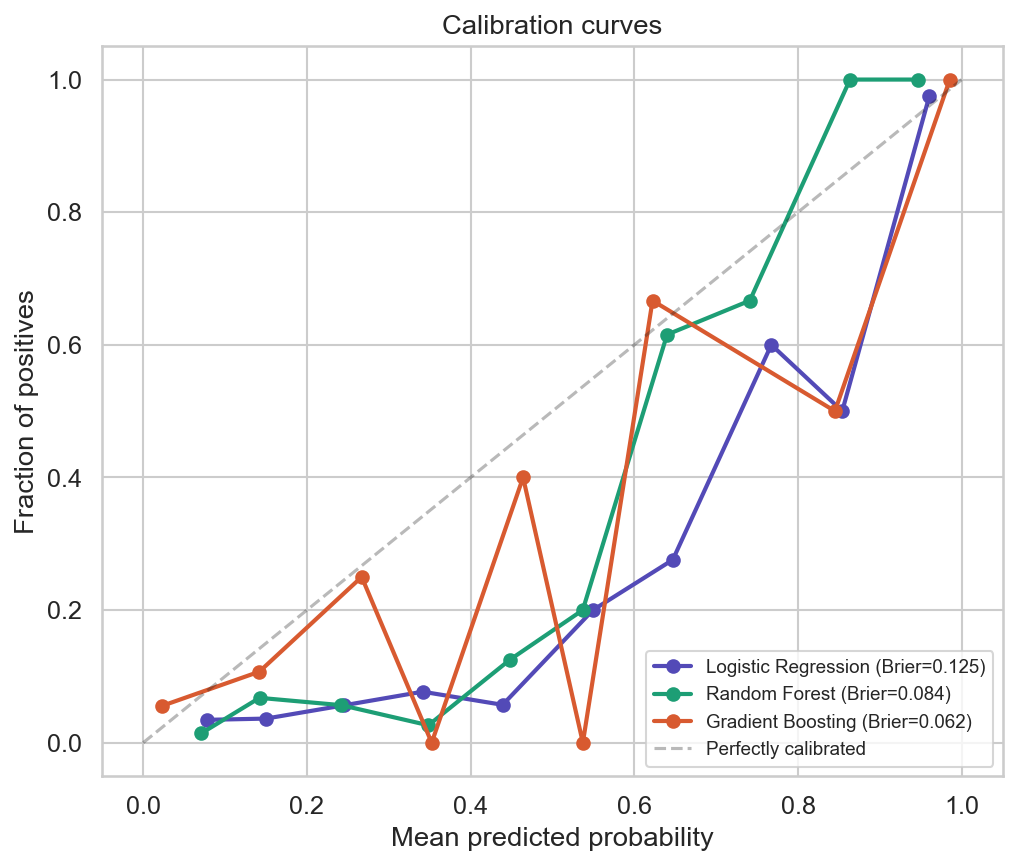
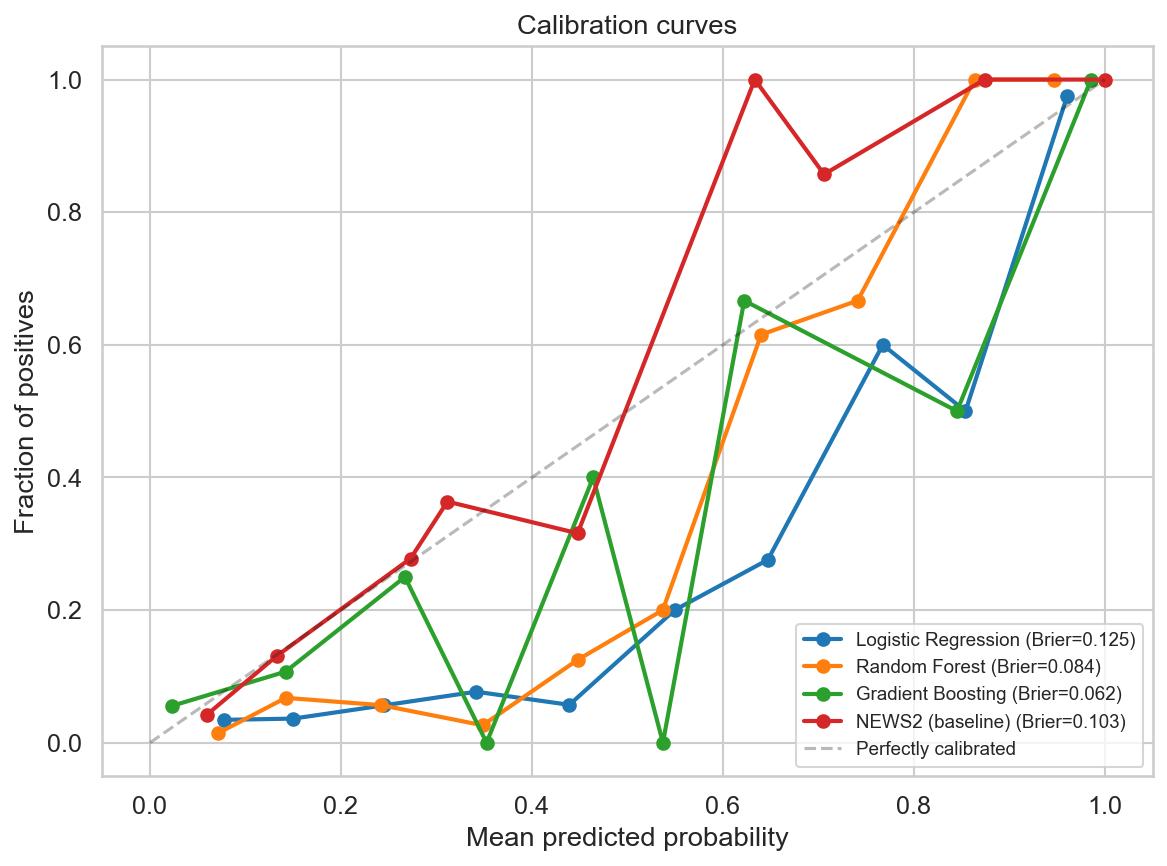
docs: full README rewrite + minimal GitHub Actions CI
README restructured around three research questions (ML vs NEWS2 overall,
labs vs non-linearity, subgroup performance) with headline findings,
leaderboard, decision curve analysis section, and subgroup forest plot.

CI workflow runs on push/PR to main:
- Python 3.11, pip caching
- Smoke tests for data loading, NEWS2Baseline module, data generator
- ~60s total runtime, no notebook execution

diff --git a/README.md b/README.md
@@ -1,54 +1,92 @@
-# Sepsis Early Detection — NEWS2 + Labs Machine Learning Pipeline
+# Sepsis Early Detection — NEWS2 vs Machine Learning
 
-A machine learning pipeline that predicts sepsis onset from **NEWS2 vital signs** and **routine laboratory markers**, comparing multiple classification algorithms against clinically meaningful baselines with bootstrap confidence intervals.
+[![CI](https://github.com/M-Omarjee/sepsis-ai/actions/workflows/ci.yml/badge.svg)](https://github.com/M-Omarjee/sepsis-ai/actions/workflows/ci.yml)
+[![Python 3.11](https://img.shields.io/badge/python-3.11-blue.svg)](https://www.python.org/downloads/release/python-3110/)
+[![License: MIT](https://img.shields.io/badge/License-MIT-yellow.svg)](LICENSE)
+
+A reproducible benchmark comparing the NHS-standard **NEWS2 early warning score** against machine learning models for sepsis detection, with proper clinical evaluation (bootstrap CIs, decision curve analysis, and subgroup audits).
+
+Built by a foundation doctor asking: *"Does ML actually beat the score we already use — and if so, where?"*
 
 > ⚠ **Disclaimer:** This project uses synthetic data for educational and portfolio purposes. It is **not** a validated clinical decision-support tool.
 
 ---
 
-## Clinical Context
+## The Question
 
-The UK [National Early Warning Score (NEWS2)](https://www.rcplondon.ac.uk/projects/outputs/national-early-warning-score-news-2) is the NHS standard for detecting acute physiological deterioration in hospital inpatients. While NEWS2 performs well as a general acuity measure, it was not designed specifically for sepsis and can miss patients with atypical presentations — notably the ~35% of septic patients who are normothermic.
+The UK [National Early Warning Score (NEWS2)](https://www.rcplondon.ac.uk/projects/outputs/national-early-warning-score-news-2) is the NHS standard for detecting acute deterioration. It works — but it was not designed specifically for sepsis, and clinicians know it misses atypical presentations (e.g. the ~35% of septic patients who are normothermic).
 
-This project investigates two separable questions:
+This project asks three separable questions:
 
-1. **Do routine laboratory markers (WCC, lactate, CRP) add meaningful discriminative value on top of NEWS2?**
-2. **Does a non-linear ML model capture patterns that a simple linear score would miss?**
-
-Separating these questions matters: they have different clinical implications. If the labs drive the improvement, the path forward is sending more bloods early. If non-linear modelling drives the improvement, the path forward is about how vital-sign information is represented — not about adding more tests.
+1. **Does ML meaningfully beat NEWS2 on equal-footing evaluation?**
+2. **Do routine labs (WCC, lactate, CRP) add value, or is NEWS2 already near the ceiling of what vital signs can tell us?**
+3. **Is ML's advantage uniform — or concentrated in specific patient subgroups where NEWS2 is known to be unreliable?**
 
 ---
 
-## Results
+## Headline Findings
 
-All models were evaluated on a held-out test set of 400 patients (20% sepsis prevalence). 95% confidence intervals are derived from 1,000 bootstrap resamples.
+On 2,000 synthetic patients (20% sepsis prevalence, 400-patient held-out test set, 1,000-iteration bootstrap CIs):
 
-| Model | AUROC (95% CI) | AUPRC (95% CI) | Brier Score |
-|-------|-------|-------|-------------|
+### 1. ML beats NEWS2 — but modestly, and mostly on AUPRC
+
+| Model | AUROC (95% CI) | AUPRC (95% CI) | Brier |
+|---|---|---|---|
+| **Random Forest** | **0.907 (0.849–0.950)** | **0.864 (0.791–0.917)** | 0.084 |
 | Logistic Regression | 0.896 (0.843–0.941) | 0.810 (0.729–0.878) | 0.125 |
-| **Random Forest** | **0.907 (0.849–0.950)** | **0.864 (0.791–0.917)** | **0.084** |
-| Gradient Boosting | 0.889 (0.828–0.939) | 0.847 (0.772–0.904) | 0.062 |
+| Gradient Boosting | 0.889 (0.828–0.939) | 0.847 (0.772–0.904) | **0.062** |
+| NEWS2 (baseline, calibrated) | 0.853 (0.802–0.898) | 0.674 (0.576–0.762) | 0.103 |
 
-**Important:** all three models' confidence intervals overlap — Random Forest has the highest point estimate but cannot be claimed as statistically superior on this sample size. Gradient Boosting shows the best calibration (lowest Brier score).
+NEWS2's AUROC CI **overlaps** with all ML models — on this sample size, ML is not unambiguously better at ranking patients. But NEWS2's AUPRC CI **does not overlap** with Random Forest's, meaning ML captures significantly more true positives per false alarm.
 
-### Key Finding — Where Does the Predictive Value Come From?
+Gradient Boosting has the best calibration (lowest Brier), not the best AUROC — a reminder that "best model" depends on the question.
+
+### 2. Non-linear modelling drives the gain — not the labs
 
 | Approach | AUROC | Gain |
 |---|---|---|
-| NEWS2 score alone | 0.851 | — |
-| Simple LR on NEWS2 + 3 labs | 0.855 (0.798–0.899) | **+0.004** |
-| Full ML (Random Forest, all features) | 0.907 | **+0.051** |
+| NEWS2 alone (calibrated) | 0.853 | — |
+| Simple LR on NEWS2 + 3 labs | 0.855 (0.798–0.899) | **+0.002** |
+| Full ML (Random Forest) | 0.907 | **+0.051** |
 
-On this cohort, adding lab markers to NEWS2 through a simple linear model does **not** meaningfully improve discrimination. The full ML gain comes from capturing **non-linear interactions between vital signs**, not from the labs themselves.
+Adding labs linearly adds essentially nothing. The full ML gain comes from capturing non-linear interactions in the vitals — not from the labs themselves.
 
-### Evaluation Plots
+### 3. The ML advantage doubles in elderly patients
+
+<p align="center">
+  <img src="assets/subgroup_forest_plot.png" width="85%" alt="Subgroup AUROC forest plot" />
+</p>
+
+| Subgroup | RF AUROC | NEWS2 AUROC | Gap |
+|---|---|---|---|
+| Overall (n=400, sepsis=80) | 0.907 | 0.853 | +0.054 |
+| **Elderly >65 (n=69, sepsis=33)** | **0.986** | **0.868** | **+0.118** |
+| Normothermic <38°C (n=354, sepsis=34) | 0.781 | 0.779 | +0.002 |
+
+**In elderly patients, RF and NEWS2 confidence intervals do not overlap** — the first statistically robust evidence of ML advantage in this dataset. Clinically, this matches the known limitation that elderly patients have blunted physiological responses that NEWS2 is poorly calibrated to.
+
+In contrast, **when temperature is uninformative (normothermic sepsis), no model has enough signal to compensate** — ML doesn't have a secret sauce for this subgroup.
+
+### 4. Decision Curve Analysis tells a different story than AUROC
+
+<p align="center">
+  <img src="assets/decision_curve_analysis.png" width="80%" alt="Decision Curve Analysis" />
+</p>
+
+At low thresholds (<0.15 probability — where NHS NEWS2 ≥ 5 escalation sits), all models converge. **Logistic Regression is actually worse than NEWS2** at mid-thresholds (0.20–0.30) despite its higher AUROC — demonstrating that AUROC and clinical utility can diverge.
+
+**Gradient Boosting dominates at high thresholds (>0.35)** where specificity matters — e.g. when deciding to commit a patient to broad-spectrum antibiotics.
+
+---
+
+## Evaluation Plots
 
 <p align="center">
   <img src="assets/roc_pr_curves.png" width="90%" alt="ROC and Precision-Recall curves" />
 </p>
 
 <p align="center">
-  <img src="assets/feature_importance.png" width="90%" alt="Feature importance (native and permutation)" />
+  <img src="assets/calibration_curve.png" width="70%" alt="Calibration curves" />
 </p>
 
 <p align="center">
@@ -56,25 +94,25 @@ On this cohort, adding lab markers to NEWS2 through a simple linear model does *
 </p>
 
 <p align="center">
-  <img src="assets/calibration_curve.png" width="70%" alt="Calibration curves" />
+  <img src="assets/feature_importance.png" width="90%" alt="Feature importance (native and permutation)" />
 </p>
 
 ---
 
 ## Dataset
 
-The dataset contains **2,000 synthetic patients** (20% sepsis prevalence) generated with physiologically plausible distributions:
+2,000 synthetic patients (20% sepsis prevalence) with physiologically plausible distributions:
 
-- **Vital signs:** Respiratory rate, SpO₂, heart rate, systolic BP, temperature, AVPU consciousness level
-- **Laboratory markers:** White cell count (WCC), lactate, C-reactive protein (CRP)
-- **Derived scores:** NEWS2 aggregate score, supplemental oxygen status
-- **Demographics:** Age, sex
+- **Vital signs:** respiratory rate, SpO₂, heart rate, systolic BP, temperature, AVPU
+- **Laboratory markers:** WCC, lactate, CRP
+- **Derived:** NEWS2 aggregate score, supplemental oxygen status
+- **Demographics:** age, sex
 
-Distributions are derived from published NEWS2 reference ranges ([RCP, 2017](https://www.rcplondon.ac.uk/projects/outputs/national-early-warning-score-news-2)) and Sepsis-3 criteria ([Singer et al., JAMA 2016](https://jamanetwork.com/journals/jama/fullarticle/2492881)). A latent severity factor drives inter-feature correlations, with ~35% of sepsis patients simulated as normothermic (matching literature estimates). All vital signs and lab markers are generated from severity — not directly from the sepsis label — to avoid label leakage.
+Distributions are derived from [NEWS2 reference ranges (RCP, 2017)](https://www.rcplondon.ac.uk/projects/outputs/national-early-warning-score-news-2) and [Sepsis-3 criteria (Singer et al., JAMA 2016)](https://jamanetwork.com/journals/jama/fullarticle/2492881). A latent severity factor drives inter-feature correlations, with ~35% of sepsis patients simulated as normothermic. All vital signs and labs are generated from severity — not from the sepsis label directly — to avoid leakage.
 
-> **Why the reported AUROC is still higher than published real-world models:** Synthetic data necessarily has a cleaner underlying structure than real patients, who present with comorbidities, medication effects, and measurement variability. Published MIMIC-IV sepsis models typically achieve AUROC 0.78–0.88. These numbers should be read as demonstrating pipeline correctness, not as a performance claim that would transfer to real data.
+> **On the AUROC value vs real-world literature:** Published MIMIC-IV sepsis models typically achieve AUROC 0.78–0.88; this project reports 0.91 on synthetic data. Synthetic distributions are cleaner than real patients, who have comorbidities, medication effects, and measurement variability. These numbers demonstrate pipeline correctness, not a performance claim that transfers to real data.
 
-To regenerate the dataset:
+To regenerate:
 
 ```bash
 python src/generate_data.py --seed 42
@@ -84,34 +122,33 @@ python src/generate_data.py --seed 42
 
 ## Project Structure
 
-```
 sepsis-ai/
 ├── notebooks/
-│   └── sepsis_detection.ipynb   # Full analysis: EDA → modelling → evaluation
+│   └── sepsis_detection.ipynb   # Full analysis: EDA → modelling → subgroup audit
 ├── src/
-│   └── generate_data.py         # Synthetic data generator with clinical distributions
-├── data/
-│   └── raw/                     # Generated CSV
+│   ├── generate_data.py         # Synthetic data generator
+│   └── news2_baseline.py        # NEWS2 wrapper with isotonic calibration
+├── data/raw/                    # Generated CSV
 ├── assets/                      # Saved plots
 ├── models/                      # Serialised best model (.joblib)
 ├── requirements.txt             # Pinned dependencies
-├── LICENSE                      # MIT
 └── README.md
-```
 
 ---
 
 ## Quickstart
 
 ```bash
-# Clone
 git clone https://github.com/M-Omarjee/sepsis-ai.git
 cd sepsis-ai
 
-# Install dependencies
+# Python 3.11 virtual environment recommended
+python3.11 -m venv .venv
+source .venv/bin/activate
+
 pip install -r requirements.txt
 
-# Generate dataset
+# Regenerate dataset (optional; one is shipped in data/raw/)
 python src/generate_data.py
 
 # Run the notebook
@@ -122,40 +159,42 @@ jupyter notebook notebooks/sepsis_detection.ipynb
 
 ## Methodology
 
-1. **Exploratory data analysis** — Distribution comparisons between sepsis and non-sepsis groups, inter-feature correlation matrix, class-balance assessment.
-2. **Preprocessing** — Label encoding of AVPU and sex; StandardScaler fitted on training set only; stratified 80/20 train-test split.
-3. **Model training** — Logistic Regression (interpretable baseline), Random Forest, and Gradient Boosting, each with 5-fold stratified cross-validation on the training set.
-4. **Evaluation** — AUROC, AUPRC, Brier score, calibration curves, confusion matrices, and permutation feature importance — each with 1,000-iteration bootstrap 95% confidence intervals.
-5. **Baseline comparisons** — NEWS2 score alone (as a standalone classifier across threshold sweep) and a simple logistic regression on NEWS2 + labs, to isolate where predictive value originates.
+1. **Data & preprocessing** — Label encoding of AVPU and sex; StandardScaler fitted on training set only; stratified 80/20 train-test split.
+2. **Model training** — Logistic Regression, Random Forest, Gradient Boosting (each with 5-fold stratified CV on train), plus a calibrated **NEWS2 baseline** (isotonic regression mapping the ordinal score to probabilities — Niculescu-Mizil & Caruana, 2005).
+3. **Discriminative evaluation** — AUROC, AUPRC, Brier score with 1,000-iteration bootstrap 95% CIs.
+4. **Clinical evaluation** — Calibration curves and **Decision Curve Analysis** ([Vickers & Elkin, 2006](https://pubmed.ncbi.nlm.nih.gov/17099194/)) — net benefit vs treat-all/treat-none references across plausible thresholds.
+5. **Subgroup audit** — Per-model AUROC with bootstrap CIs in clinically defined subgroups (elderly >65, normothermic <38°C, and their intersection).
+6. **Feature importance** — Native importance and permutation importance (AUROC-based) for the best ML model.
+7. **Ablation** — Three-layer decomposition (NEWS2 alone → simple LR on NEWS2+labs → full ML) to isolate whether gains come from labs or from non-linearity.
 
 ---
 
 ## Limitations
 
-- **Synthetic data:** Modelled on published ranges, but cannot reproduce real-world complexity (comorbidities, medication effects, temporal trajectories, measurement noise).
-- **Single time-point:** Each patient is represented by one snapshot. Real sepsis deterioration is a trajectory.
-- **No external validation:** Metrics reflect performance on the synthetic cohort only.
-- **Overlapping confidence intervals between models** — Random Forest has the highest point estimate but is not statistically superior to Logistic Regression or Gradient Boosting at this sample size.
-- **Correlated features limit permutation importance** — Vital signs that move together (heart rate, respiratory rate, NEWS2) have artificially reduced individual permutation importance.
+- **Synthetic data** — Modelled on published ranges, but cannot reproduce real-world complexity (comorbidities, medication effects, temporal trajectories, measurement noise).
+- **Single time-point** — Each patient is one snapshot; real sepsis deterioration is a trajectory.
+- **No external validation** — Metrics reflect performance on this synthetic cohort only.
+- **Overlapping CIs overall** — Random Forest has the highest point estimate but is not statistically superior to LR or GB overall. The elderly-subgroup gap **is** statistically robust.
+- **Sparse hardest subgroup** — Elderly + normothermic contains only 9 septic cases; CIs too wide for inference.
+- **Correlated features limit permutation importance** — Vital signs that move together (HR, RR, NEWS2) have artificially reduced individual permutation importance.
 
 ---
 
 ## Next Steps
 
-1. **Validation on real data** — MIMIC-IV or eICU Collaborative Research Database. External validation is the single most important next step.
-2. **Temporal modelling** — Incorporate sequential vital signs with LSTM or Temporal Fusion Transformer to capture deterioration trajectories.
-3. **Calibration improvement** — Platt scaling or isotonic regression, particularly for Random Forest.
-4. **Decision-curve analysis** — Quantify net clinical benefit at plausible intervention thresholds rather than relying on AUROC.
-5. **Fairness audit** — Stratified performance across age and sex subgroups.
-6. **Deployment prototype** — FastAPI endpoint accepting NEWS2 parameters and returning calibrated sepsis risk scores.
+1. **External validation on real data** (MIMIC-IV / eICU) — the single most important next step.
+2. **Temporal modelling** — Sequential vitals with LSTM or Temporal Fusion Transformer to capture deterioration trajectories, not snapshots.
+3. **Gradio demo** — Clinician-facing calculator that displays NEWS2, ML prediction, and a per-feature contribution breakdown (SHAP) side by side.
+4. **Fairness audit across sex and ethnicity** — Current audit covers age and temperature; sex- and ethnicity-stratified performance is a known concern in clinical ML.
+5. **Deployment prototype** — FastAPI endpoint returning calibrated sepsis risk at clinically meaningful thresholds.
 
 ---
 
 ## Technical Stack
 
-**Language:** Python 3.10+
+**Language:** Python 3.11
 **Core libraries:** scikit-learn, pandas, NumPy, matplotlib, seaborn
-**Model serialisation:** joblib
+**Baseline module:** custom `NEWS2Baseline` with isotonic calibration (`src/news2_baseline.py`)
 
 ---
 
